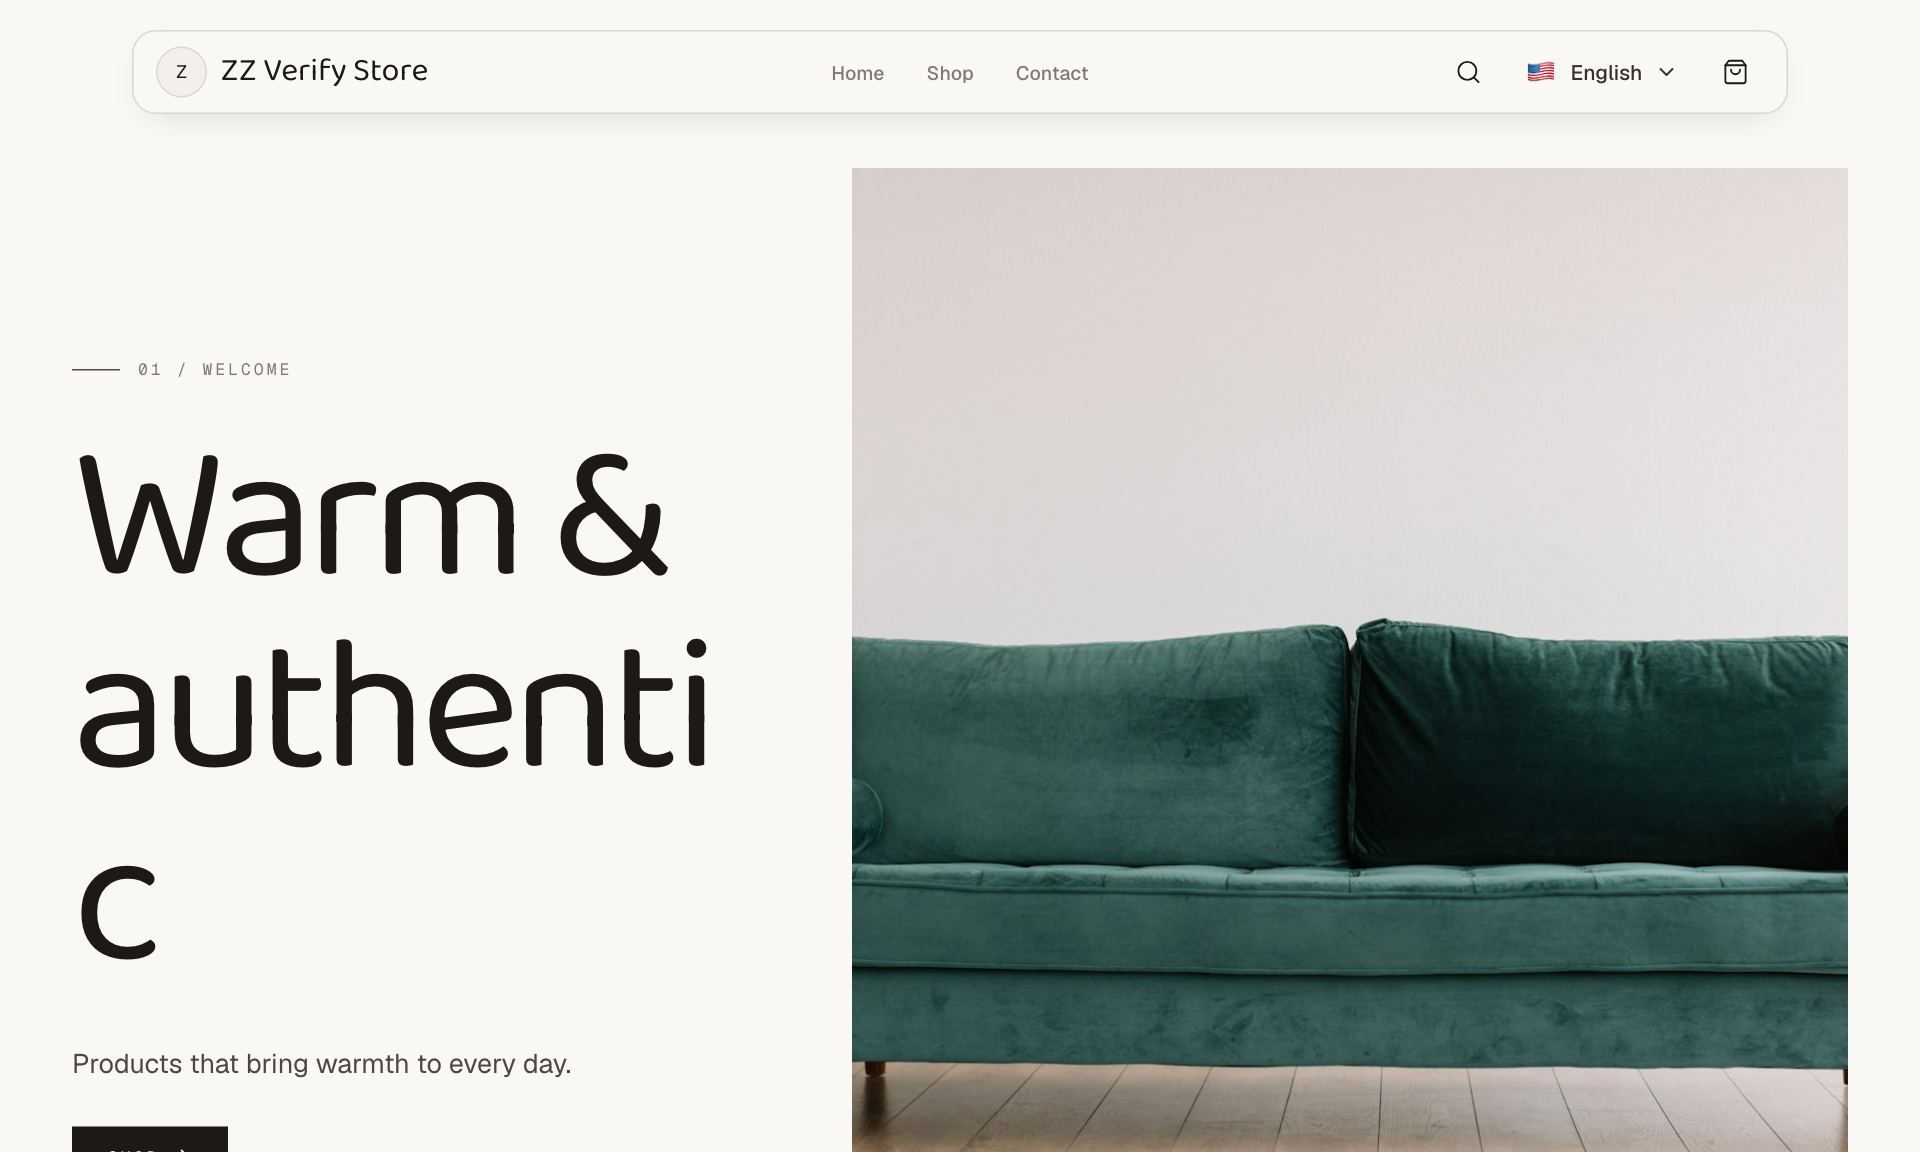
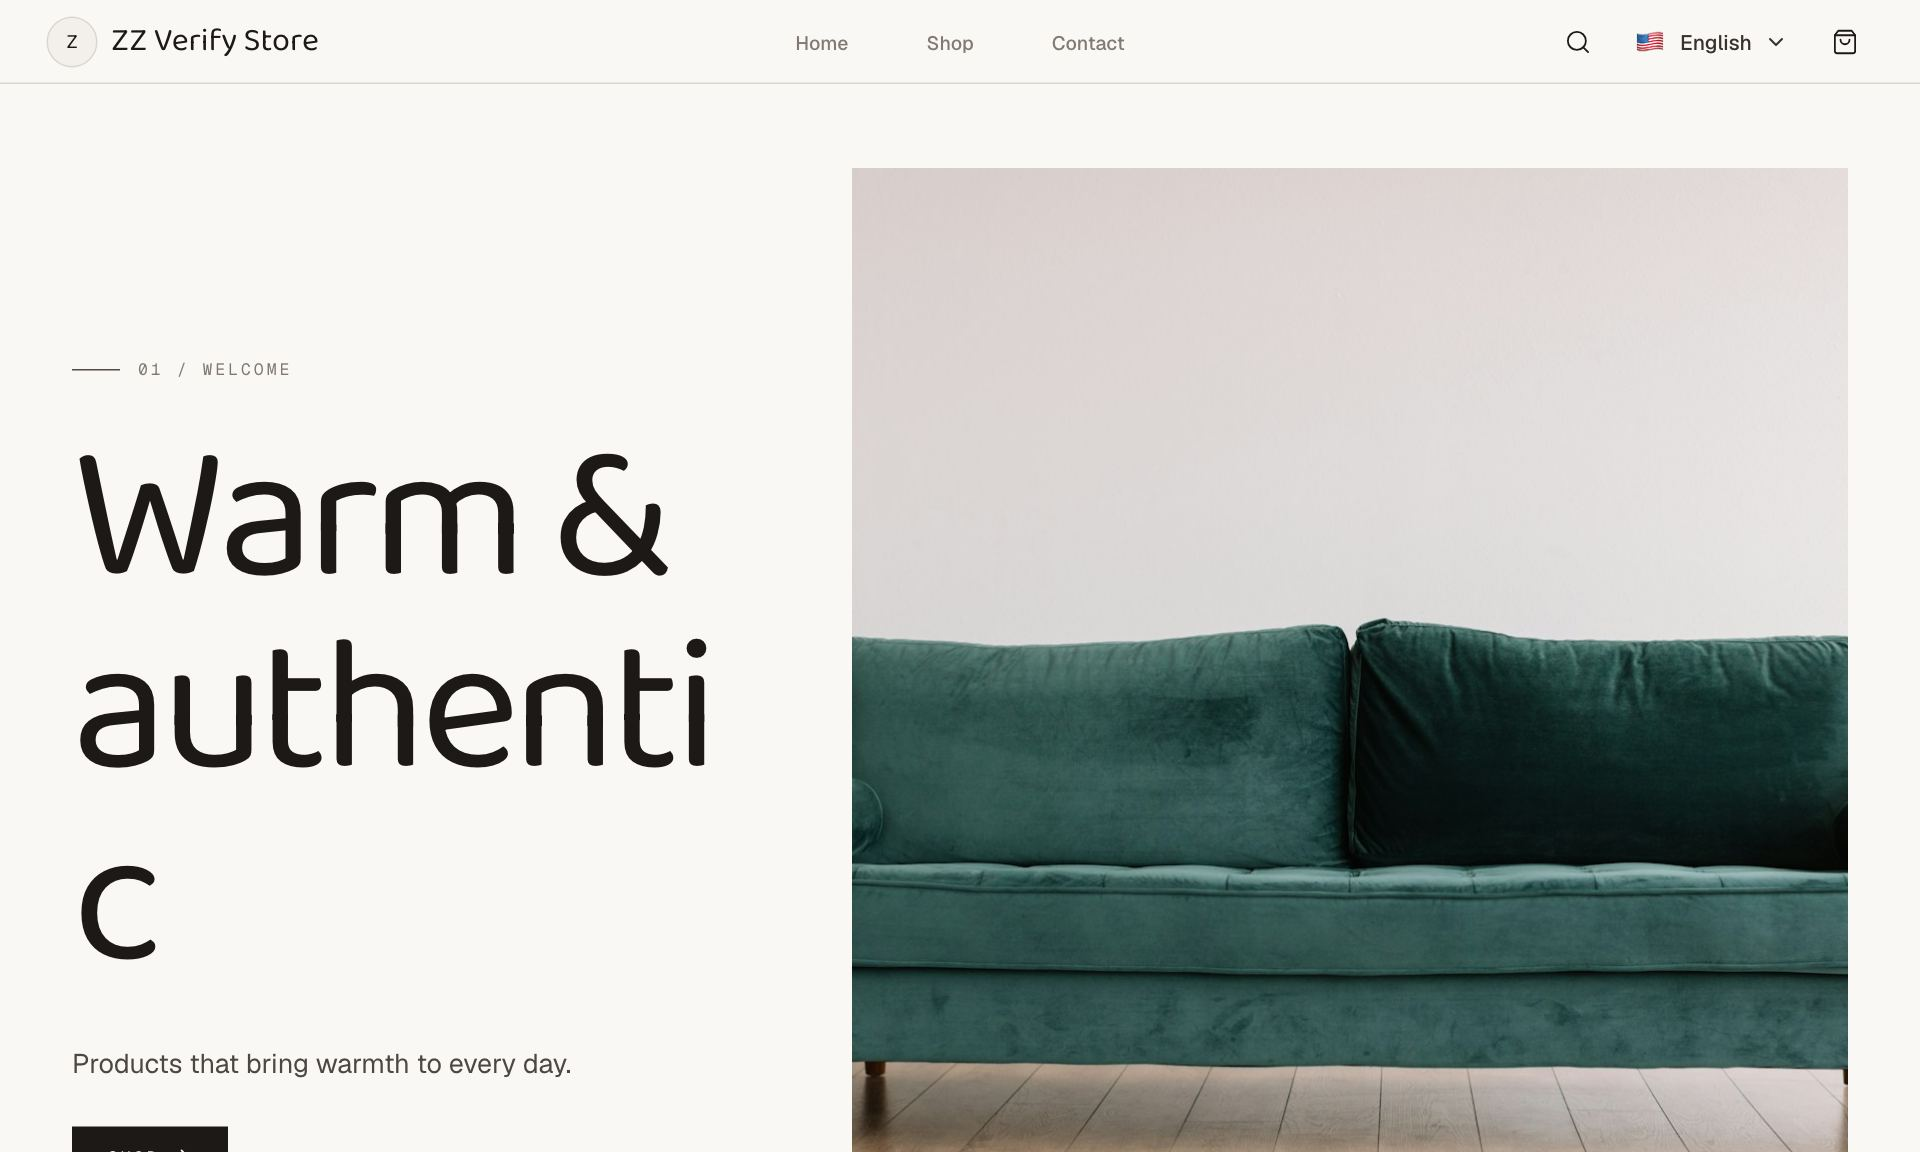
feat(theming): Bold & Warm move to the classic chrome (2/2/1 spread)
With three chrome sets live, themes redistribute: Minimal+Elegant editorial,
Bold+Warm classic (flat header, overlay cards, centered footer), Ludique
playful. Thumbnails regenerated from the live storefront.

diff --git a/src/sections/settings/store-themes.js b/src/sections/settings/store-themes.js
@@ -73,7 +73,7 @@ export const STORE_THEMES = [
     id: 'bold',
     thumb: '/assets/themes/bold.jpg',
     style: 'bold',
-    structure: 'editorial',
+    structure: 'classic',
     palette: 'crimson',
     swatch: '#DE4A40',
     sections: [
@@ -133,7 +133,7 @@ export const STORE_THEMES = [
     id: 'warm',
     thumb: '/assets/themes/warm.jpg',
     style: 'soft',
-    structure: 'editorial',
+    structure: 'classic',
     palette: 'terracotta',
     swatch: '#DB7150',
     sections: [